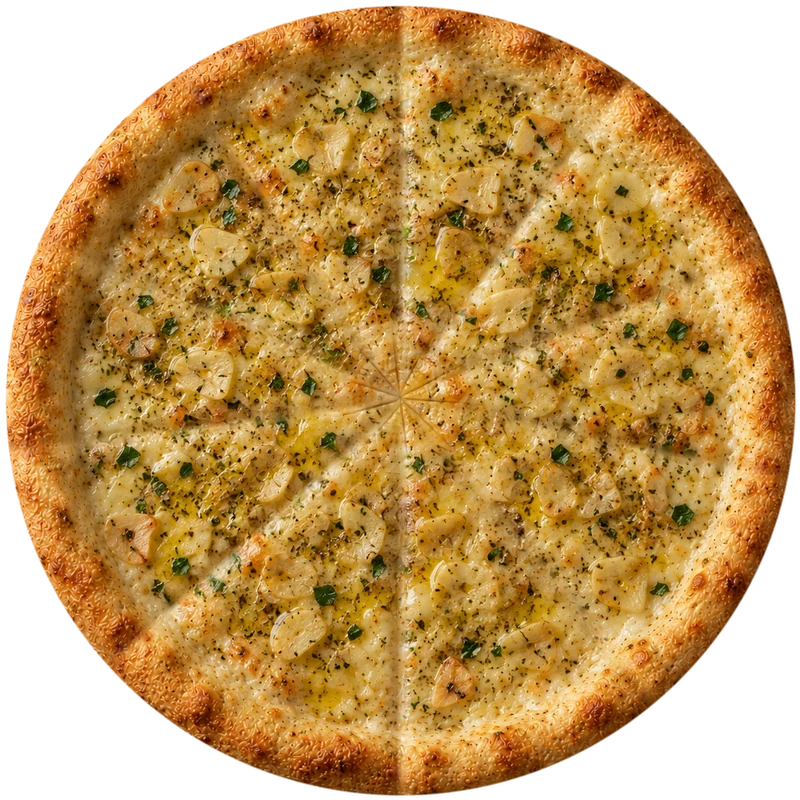
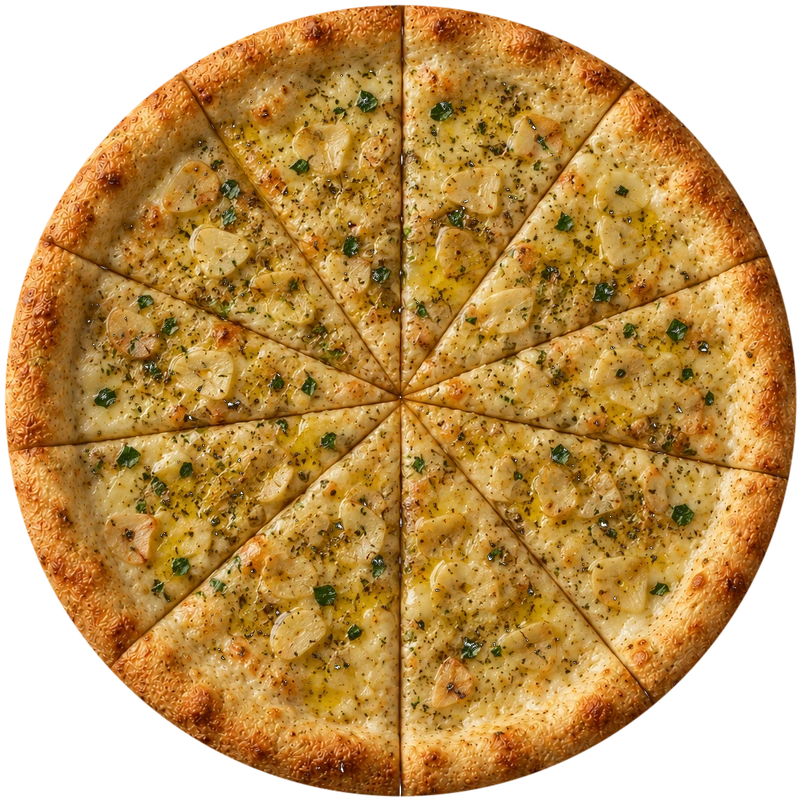
12 modelos reais de sabores e corte realista (fresta e bisel) feito na hora
Claude-Session: https://claude.ai/code/session_011LuRHEVc34R5xPAEgWmKaq

diff --git a/index.html b/index.html
@@ -277,9 +277,9 @@ footer{background:var(--carvao);color:#fff;padding:26px 0 24px}
 .tabua{position:absolute;inset:0;filter:drop-shadow(0 18px 26px rgba(0,0,0,.6));transition:transform .7s cubic-bezier(.5,0,.8,.4)}
 .tabua.fora{transform:translateY(700px)}
 .tabua img{width:100%;height:100%;display:block}
-.pz{position:absolute;left:34px;top:34px;width:332px;height:332px;transform:translateZ(3px);filter:drop-shadow(0 1px 1.5px rgba(20,8,0,.7)) drop-shadow(3px 6px 5px rgba(0,0,0,.55))}
+.pz{position:absolute;left:34px;top:34px;width:332px;height:332px;transform:translateZ(3px);}
 .pz-l{position:absolute;inset:0}
-.pz-sombra{position:absolute;left:52px;top:52px;width:296px;height:296px;border-radius:50%;background:rgba(5,2,0,.92);transform:translate3d(15px,24px,1.5px);filter:blur(7px);transition:opacity .4s}
+.pz-sombra{position:absolute;left:52px;top:52px;width:296px;height:296px;border-radius:50%;background:rgba(5,2,0,.6);transform:translate3d(15px,24px,1.5px);filter:blur(7px);transition:opacity .4s}
 .tabua.fora~.pz-sombra{opacity:0}
 .pz-l svg{width:100%;height:100%;display:block;overflow:visible}
 .pz [data-i]{transition:transform .8s cubic-bezier(.3,.7,.3,1)}
@@ -724,7 +724,8 @@ const f2=n=>n.toFixed(2);
 function setor(r,a0,a1){const g=a1-a0>Math.PI?1:0;return`M0 0L${f2(r*Math.cos(a0))} ${f2(r*Math.sin(a0))}A${r} ${r} 0 ${g} 1 ${f2(r*Math.cos(a1))} ${f2(r*Math.sin(a1))}Z`}
 function arco(r,a0,a1){return`M${f2(r*Math.cos(a0))} ${f2(r*Math.sin(a0))}A${r} ${r} 0 0 1 ${f2(r*Math.cos(a1))} ${f2(r*Math.sin(a1))}`}
 function grupos(n,k){const g=[];let i=0;const b=Math.floor(n/k),x=n%k;for(let j=0;j<k;j++){const t=b+(j<x?1:0);g.push({ini:i,fim:i+t});i+=t}return g}
-function offsets(cfg){return Array.from({length:cfg.n},()=>[0,0])} // fatias não se afastam: o corte é desenhado
+/* depois de cortada, cada fatia se afasta um pouquinho do centro (fresta fina, como pizza cortada de verdade) */
+function offsets(cfg){const st=TAU/cfg.n;return Array.from({length:cfg.n},(_,i)=>{if(!cfg.cortada)return[0,0];const m=-Math.PI/2+(i+.5)*st;return[1.9*Math.cos(m),1.9*Math.sin(m)]})}
 const EXTRAS_IMG=['queijo','bacon','azeitona']; // ketchup e maionese vão em sachê
 let UID=0;
 /* corte de faca: sulco escuro fino + brilho do lado oposto, como pizza cortada de verdade */
@@ -737,20 +738,31 @@ function faca(n,animar){
   }
   return h+'</g>';
 }
-function svgPizza(cfg,{cortes=false}={}){
+function svgPizza(cfg,{cortes=false,off=offsets(cfg)}={}){
   const n=cfg.n,st=TAU/n,id='pz'+Date.now().toString(36)+(++UID);
   const k=cfg.sabores.length,gs=k?grupos(n,k):[];
   const ex=EXTRAS_IMG.filter(e=>(cfg.extras||[]).includes(e));
   const IMG=src=>`<image href="${src}" x="-101" y="-101" width="202" height="202"/>`;
-  let h=`<svg xmlns="http://www.w3.org/2000/svg" viewBox="-112 -112 224 224">${IMG('img/massa.webp')}`;
-  /* cada sabor recorta a parte dele da pizza inteira do sabor */
-  gs.forEach((g,gi)=>{
-    const s=SAB[cfg.sabores[gi]],a0=-Math.PI/2+g.ini*st,a1=-Math.PI/2+g.fim*st;
-    const ex2=s.tier!=='doce'?ex.map(e=>IMG(`img/sabores/extra-${e}.webp`)).join(''):'';
-    h+=`<clipPath id="${id}s${gi}"><path d="${k===1?'M-102-102H102V102H-102Z':setor(102,a0,a1)}"/></clipPath><g clip-path="url(#${id}s${gi})">${IMG(`img/sabores/${s.id}.webp`)}${ex2}</g>`;
-  });
-  if(cfg.borda)h+=IMG(`img/borda-${cfg.borda}.webp`);
-  if(cfg.cortada||cortes)h+=faca(n,cortes);
+  /* bisel: sombra interna nas bordas de cada fatia + sombrinha projetada na fresta */
+  let h=`<svg xmlns="http://www.w3.org/2000/svg" viewBox="-112 -112 224 224"><defs>
+    <filter id="${id}f" x="-10%" y="-10%" width="120%" height="120%"><feDropShadow dx=".35" dy=".6" stdDeviation=".7" flood-color="#1a0a02" flood-opacity=".38"/></filter>
+    <linearGradient id="${id}g" gradientUnits="objectBoundingBox" x1="0" y1="0" x2="1" y2="0">
+      <stop offset="0" stop-color="#5a3010" stop-opacity=".5"/><stop offset=".22" stop-color="#7a4818" stop-opacity=".22"/>
+      <stop offset=".34" stop-color="#fff6e2" stop-opacity=".38"/><stop offset=".6" stop-color="#fff6e2" stop-opacity="0"/>
+    </linearGradient></defs>`;
+  /* faixa de bisel ao longo de uma borda (reta pelo centro, ângulo a), entrando na fatia pelo lado 'lado' */
+  const bisel=(a,lado)=>{const w=3.4;return `<rect x="0" y="${lado>0?0:-w}" width="103" height="${w}" fill="url(#${id}g${lado>0?'p':'n'})" transform="rotate(${f2(a*DEG)})"/>`};
+  h=h.replace('</defs>',`<linearGradient id="${id}gp" href="#${id}g" x1="0" y1="0" x2="0" y2="1"/><linearGradient id="${id}gn" href="#${id}g" x1="0" y1="1" x2="0" y2="0"/></defs>`);
+  const inteira=!cfg.cortada&&!cortes;
+  for(let i=0;i<(inteira?1:n);i++){
+    const a0=-Math.PI/2+i*st,a1=a0+st,o=off[i]||[0,0];
+    const gi=gs.findIndex(g=>i>=g.ini&&i<g.fim),s=gi>=0?SAB[cfg.sabores[gi]]:null;
+    let c=s?IMG(`img/sabores/${s.id}.webp`)+(s.tier!=='doce'?ex.map(e=>IMG(`img/sabores/extra-${e}.webp`)).join(''):''):IMG('img/massa.webp');
+    if(cfg.borda)c+=IMG(`img/borda-${cfg.borda}.webp`);
+    if(inteira){h+=c;break}
+    h+=`<clipPath id="${id}c${i}"><path d="${setor(103,a0,a1)}"/></clipPath><mask id="${id}m${i}" maskUnits="userSpaceOnUse" x="-110" y="-110" width="220" height="220"><g clip-path="url(#${id}c${i})">${IMG(s?`img/sabores/${s.id}.webp`:'img/massa.webp').replace('<image','<image style="filter:brightness(0) invert(1)"')}</g></mask><g data-i="${i}" style="transform:translate(${f2(o[0])}px,${f2(o[1])}px)" filter="url(#${id}f)"><g clip-path="url(#${id}c${i})">${c}<g mask="url(#${id}m${i})">${bisel(a0,1)}${bisel(a1,-1)}</g></g></g>`;
+  }
+  if(cortes)h+=faca(n,true);
   return h+'</svg>';
 }
 
@@ -763,7 +775,7 @@ $('tabua').innerHTML='<img src="img/tabua.webp" alt="">';
 let cfg,passo=1,ocupado=false,ultimo=null,riscar=false;
 function desenhar(animar){
   const nova=offsets(cfg),ini=animar&&ultimo&&ultimo.n===cfg.n?ultimo.off:nova;
-  const h=`<div class="pz-l">${svgPizza(cfg,{cortes:riscar})}</div>`;
+  const h=`<div class="pz-l">${svgPizza(cfg,{cortes:riscar,off:ini})}</div>`;
   $('pz').innerHTML=h;ultimo={n:cfg.n,off:nova};
   if(ini!==nova){void $('pz').offsetWidth;requestAnimationFrame(()=>$('pz').querySelectorAll('[data-i]').forEach(g=>{const o=nova[g.dataset.i];g.style.transform=`translate(${f2(o[0])}px,${f2(o[1])}px)`}))}
   $('pz-tag').innerHTML=cfg.cortada?`<b>${cfg.n}</b> pedaços${cfg.sabores.length?` · <b>${cfg.sabores.length}</b> sabor${cfg.sabores.length>1?'es':''}`:''}`:'Massa artesanal';
